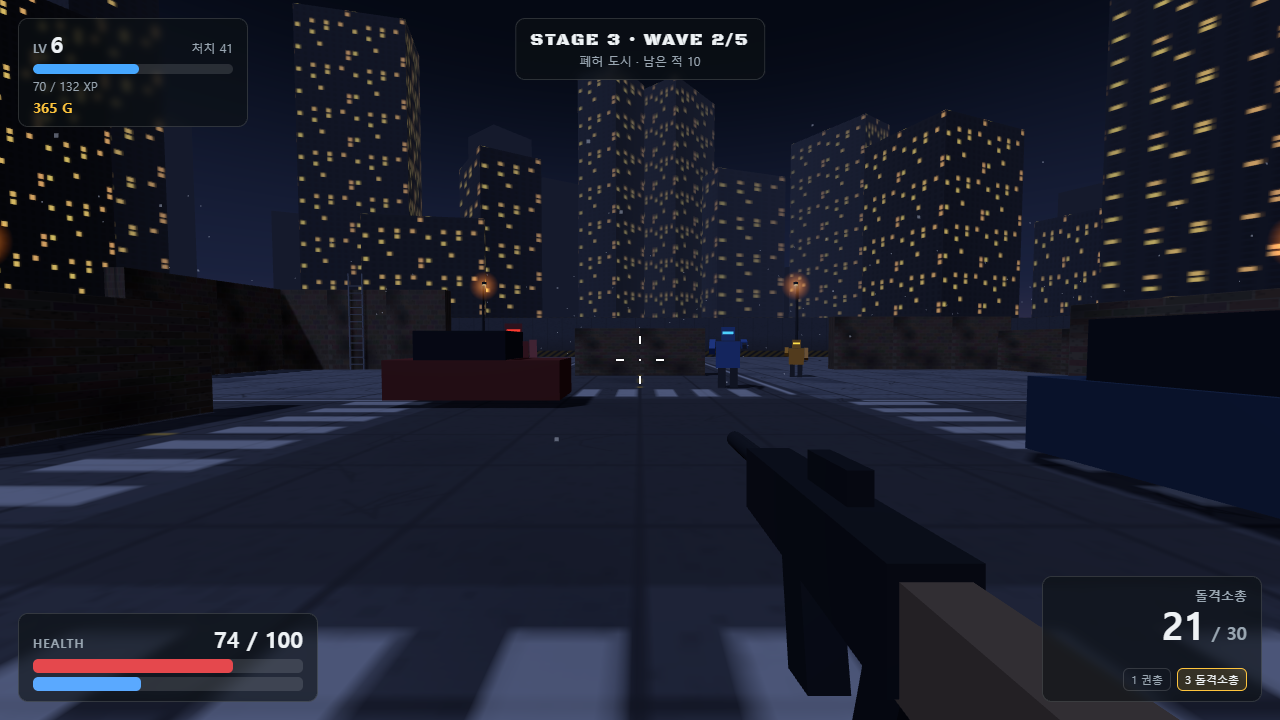
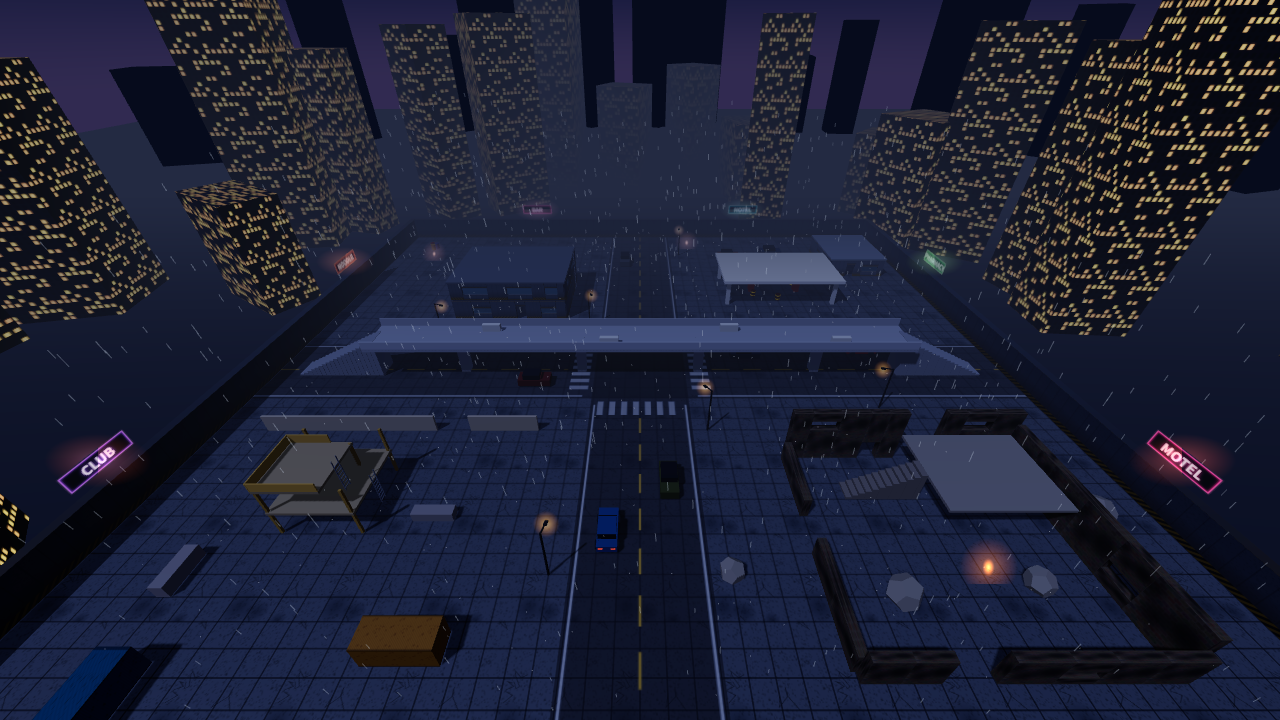
README 업데이트: 5개 전장, 캐릭터, 새 적, 자동차, 대전 모드, 조작법, 새 스크린샷

diff --git a/README.md b/README.md
@@ -4,32 +4,76 @@
 
 **버티고, 성장하고, 돌파하라.**
 
-웨이브를 버티며 성장하는 FPS 서바이벌 게임이에요. 설치 없이 PC와 모바일 브라우저에서 바로 할 수 있어요.
+웨이브를 버티며 성장하는 FPS 서바이벌 게임이에요. 설치 없이 PC와 모바일 브라우저에서 바로 할 수 있고, 친구와 1 대 1, 2 대 2 대전도 할 수 있어요.
 
 ## ▶ [지금 플레이하기](https://choiyoonsou.github.io/iron-wave/)
 
-![노을 항구](screenshots/harbor.png)
+![비행장에서 차를 타고 적에게 돌진](screenshots/driving.png)
 
 ## 게임 방식
 
-한 판은 세 개의 전장을 차례로 돌파하는 여정이에요. 웨이브를 버티고, 싸움 사이사이 캐릭터를 키워서 다음 전장으로 나아가요.
+한 판은 다섯 전장을 차례로 돌파하는 작전이에요. 웨이브를 버티면서 캐릭터를 키우고, 마지막 비행장의 최종 보스를 쓰러뜨리면 엔딩을 볼 수 있어요.
 
-1. **웨이브를 버티세요.** 맵 가장자리에서 적이 몰려와요. 엄폐물을 쓰고, 높은 곳에 올라가고, 계속 움직이세요.
-2. **레벨업하세요.** 적을 처치하면 경험치가 쌓여요. 레벨업할 때마다 게임이 멈추고 **강화 카드 3장 중 1장**을 골라요. 데미지, 연사 속도, 흡혈, 치명타, 자동 회복 등이 있어서 매 판 다른 빌드가 만들어져요.
-3. **웨이브 사이에 상점을 이용하세요.** 적을 처치하면 골드도 떨어져요. 웨이브를 깨면 상점에서 새 무기를 사거나, 가진 무기를 강화하거나, 방탄 조끼와 구급상자를 살 수 있어요.
-4. **보스를 쓰러뜨리세요.** 스테이지마다 5번째 웨이브에 그 전장만의 보스가 나와요. 보스를 잡으면 다음 전장으로 넘어가요.
-5. **더 강해진 적과 다시.** 3스테이지를 모두 깨면 더 강한 적과 함께 2회차가 시작돼요.
+1. **캐릭터를 고르세요.** 캐릭터 4명은 패시브 능력과 궁극기가 각각 달라요.
+2. **웨이브를 버티세요.** 엄폐물을 쓰고, 높은 곳에 올라가고, 계속 움직이세요. 유리창은 쏘면 깨지고 화약통은 쏘면 터져요. 차를 타고 적을 들이받을 수도 있어요.
+3. **레벨업하세요.** 레벨업할 때마다 **강화 카드 3장 중 1장**을 골라요. 데미지, 연사 속도, 흡혈, 치명타, 자동 회복 등이 있어서 매 판 다른 빌드가 만들어져요.
+4. **웨이브 사이에 상점을 이용하세요.** 새 무기를 사거나, 가진 무기를 강화하거나, 방탄 조끼, 구급상자, 수류탄을 살 수 있어요.
+5. **보스를 쓰러뜨리세요.** 스테이지마다 5번째 웨이브에 그 전장의 보스가 나와요. 보스를 잡으면 다음 전장으로 넘어가요.
+6. **엔딩, 그다음은 무한 모드.** 5스테이지를 깨면 엔딩이 나와요. 원하면 **무한 모드**로 이어서, 점점 강해지는 적을 상대로 기록에 도전할 수 있어요.
 
 | 상점 | 레벨업 |
 |---|---|
 | ![상점](screenshots/shop.png) | ![레벨업](screenshots/levelup.png) |
 
+## 캐릭터
+
+| 캐릭터 | 역할 | 패시브 | 궁극기 |
+|---|---|---|---|
+| 레이븐 | 돌격 | 재장전 속도 +15% | **오버드라이브:** 8초간 연사 +80%, 탄약 무한, 이동 속도 +30% |
+| 타이탄 | 탱커 | 최대 체력 +25 | **아이언 월:** 즉시 체력 50 회복, 6초간 받는 피해 70% 감소 |
+| 블레이즈 | 폭파 | 수류탄 +1개, 최대 5개 | **폭격 요청:** 조준한 곳에 폭탄 6발 |
+| 고스트 | 정찰 | 이동 속도 +10% | **헌터 비전:** 8초간 벽 너머 적이 보이고 데미지 +25% |
+
+궁극기는 시간이 지나거나 적을 맞히면 충전돼요.
+
 ## 전장
 
-| 노을 항구 | 사막 기지 | 폐허 도시 |
+전장마다 생김새뿐 아니라 **구조와 싸우는 방식**이 달라요.
+
+| 1. 노을 항구 | 2. 사막 기지 | 3. 폐허 도시 |
 |---|---|---|
 | ![항구](screenshots/harbor.png) | ![사막](screenshots/desert.png) | ![도시](screenshots/city.png) |
-| 해 질 녘, 쌓아 올린 컨테이너와 모래주머니 방어선 | 한낮의 탁 트인 사막, 벙커와 감시탑. 빠른 적이 많아요 | 밤의 폐허, 불탄 차와 무너진 벽. 원거리 적이 많아요 |
+| 컨테이너 미로, 9.6m 높이 크레인, 계단으로 올라가는 화물선 | 성벽 요새(성벽 위 통로, 망루 4개, 개구멍), 바위 능선, 오아시스 | 비 내리는 밤. 고가도로, 2층 사무실, 주유소, 공사장 비계 |
+
+| 4. 구시가지 | 5. 비행장 (마지막) |
+|---|---|
+| ![구시가지](screenshots/oldtown.png) | ![비행장](screenshots/airfield.png) |
+| 긴 벽으로 나뉜 세 갈래 길, 들어갈 수 있는 건물, 구름다리, 앉아서 지나가는 개구멍 | 가장 넓은 맵. 활주로와 수송기, 격납고, 관제탑, 연료 탱크. 차를 타고 달리기 좋아요 |
+
+### 전장에서 할 수 있는 것
+- **유리창:** 한 발에 깨지고, 깨진 창으로 쏘거나 넘어갈 수 있어요.
+- **화약통**(노란 띠가 있는 빨간 통): 쏘면 터져서 주변 적과 **나에게도** 피해를 줘요. 옆 화약통도 연달아 터져요.
+- **자동차:** 차를 타고 적을 들이받으면 빠를수록 큰 피해를 줘요. 차 안에서도 총을 쏠 수 있어요. 차가 공격의 절반을 막아 주지만, 망가지면 폭발해요.
+- **앉기:** 좁은 개구멍을 지나가고, 앉으면 탄이 덜 퍼져요.
+
+부서진 유리창, 화약통, 자동차는 다음 웨이브에 원래대로 돌아와요.
+
+## 적
+
+![새로운 적들](screenshots/enemies.png)
+
+| 적 | 특징 | 공략 |
+|---|---|---|
+| 돌격병 | 달려와서 근접 공격 | 기본 상대 |
+| 추적자 | 작고 빠르지만 약함 | 빨리 처리하기 |
+| 사수 | 거리를 두고 사격, 조준당하면 옆으로 피함 | 피한 쪽을 노리기 |
+| **자폭병** | 가까이 오면 삐삐 소리 후 폭발 | 멀리서 쏘면 주변 적까지 같이 터짐 |
+| **방패병** | 정면 방패가 총알을 막음 | 머리, 옆, 뒤를 노리거나 폭발로 공격 |
+| **척탄병** | 벽 너머로 수류탄을 던짐 | 바닥의 빨간 원에서 벗어나기 |
+| **저격수** | 빨간 레이저로 조준한 뒤 강하게 한 방 | 레이저가 보이면 엄폐물 뒤로 |
+| 보스 | 전장마다 1명. 근접 강타와 산탄 사격 | 최종 보스는 수류탄 세례와 지원군 호출까지 |
+
+근접 적은 정면으로만 오지 않고 **옆으로 돌아서** 다가오고, 막히면 문을 찾아 벽을 돌아와요. 높은 곳에 있으면 **점프해서 따라 올라오기도** 해요.
 
 ## 무기
 
@@ -42,16 +86,17 @@
 | 저격소총 | 600 G | 엄청난 한 방, 스코프 줌 |
 | 경기관총 | 800 G | 80발 탄창으로 쉬지 않고 사격 |
 
-모든 무기는 **+5**까지 강화할 수 있어요(1단계마다 데미지 +15%).
+- 모든 무기는 **+5**까지 강화할 수 있어요(1단계마다 데미지 +15%).
+- **부위별 데미지:** 머리 2배, 몸통 1배, 팔 0.8배, 다리 0.75배예요.
+- 칼은 언제든 쓸 수 있어요. 수류탄은 개수 제한이 있고 웨이브를 깰 때마다 1개씩 보충돼요.
 
-## 적
+## 대전 모드 (1 대 1, 2 대 2)
 
-- **돌격병:** 곧장 달려와 근접 공격을 해요.
-- **추적자:** 작고 빠르지만 약해요.
-- **사수:** 거리를 두고 피할 수 있는 주황색 탄을 쏴요.
-- **보스:** 두꺼운 장갑, 근접 강타, 5갈래 산탄 공격을 해요.
+방을 만들고 **방 코드나 초대 링크**를 친구에게 보내면 같이 할 수 있어요. 서버 설치 없이 브라우저끼리 직접 연결하고, 직접 연결이 막힌 네트워크에서는 중계 서버로 연결해요.
 
-옥상에 숨어 있으면 근접 적이 **점프해서 따라 올라와요.** 높은 곳은 시간을 벌어 줄 뿐, 안전지대는 아니에요.
+- **맵:** 구시가지(넓은 세 갈래 맵), 결투장
+- **방 옵션:** 목표 킬(5~30), 목숨당 수류탄 수, 궁극기 켜기/끄기, 무기 제한(전체 / 권총만 / 저격소총만 / 샷건만 / 칼만), 체력, 부활 시간
+- 대전 모드에는 자동차가 없어요.
 
 ## 조작법
 
@@ -62,15 +107,23 @@
 | 사격 | 왼쪽 클릭 | 사격 버튼 (누른 채 드래그하면 조준도 돼요) |
 | 정조준 | 오른쪽 클릭 | 조준 버튼 |
 | 점프 | Space | 점프 버튼 |
+| 앉기 | C (누르고 있기) | 앉기 버튼 |
 | 재장전 | R | 장전 버튼 |
 | 무기 교체 | 1~6 / 마우스 휠 | 무기 버튼 |
+| 칼 / 수류탄 / 궁극기 | V / G / Q | 각 버튼 |
+| 뒤로 돌기 | T | ↻ 버튼 |
+| 차 타기 / 내리기 | E | 타기 버튼 (차 근처에서 나와요) |
+| 운전 | W/S 가속·후진, A/D 핸들, Space 브레이크 | 조이스틱, 점프 버튼이 브레이크 |
 | 상점 (웨이브 사이) | B | 상점 버튼 |
+| 도움말 | Tab (누르고 있기) | ? 버튼 |
 | 사다리 오르기 | 사다리 쪽으로 걷기 | 조이스틱을 사다리 쪽으로 밀기 |
 
 모바일에는 **조준 보정**이 살짝 들어가 있어요. **AUTO** 버튼을 켜면 조준점이 적에 닿을 때 자동으로 사격해요.
 
+**지원 언어:** 한국어, English, 日本語, 中文 (설정에서 바꿀 수 있어요)
+
 ---
 
-**English:** A wave-survival FPS that runs in your browser on PC and mobile. Survive the waves, pick upgrade cards, buy and upgrade guns, and beat the boss of each battlefield. [Play now](https://choiyoonsou.github.io/iron-wave/)
+**English:** A wave-survival FPS that runs in your browser on PC and mobile. Pick one of four characters, survive the waves across five battlefields, pick upgrade cards, buy and upgrade guns, smash windows, blow up explosive barrels, drive cars into enemies, and beat the final boss to see the ending, then keep going in endless mode. Includes 1v1 and 2v2 online matches with friends. [Play now](https://choiyoonsou.github.io/iron-wave/)
 
 © Choiyoonsou. All rights reserved.
